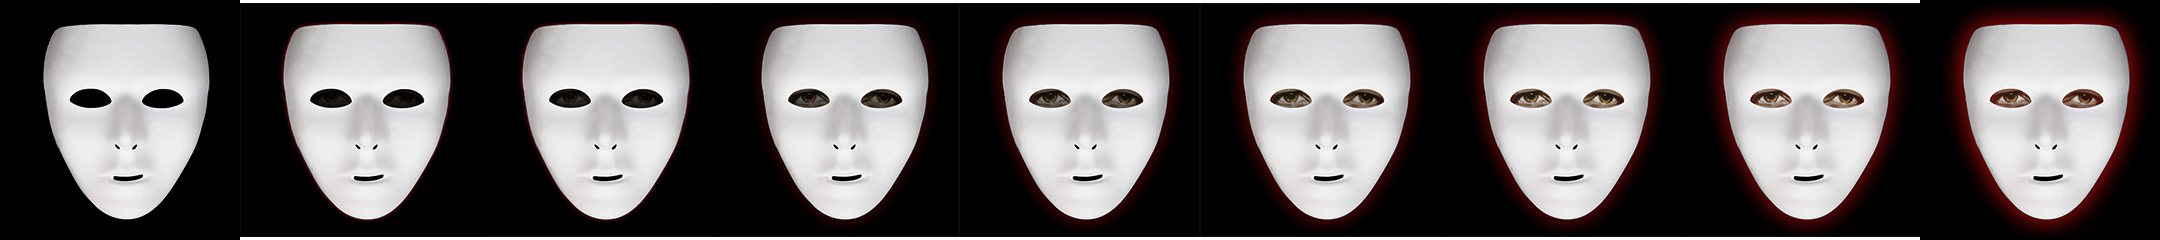
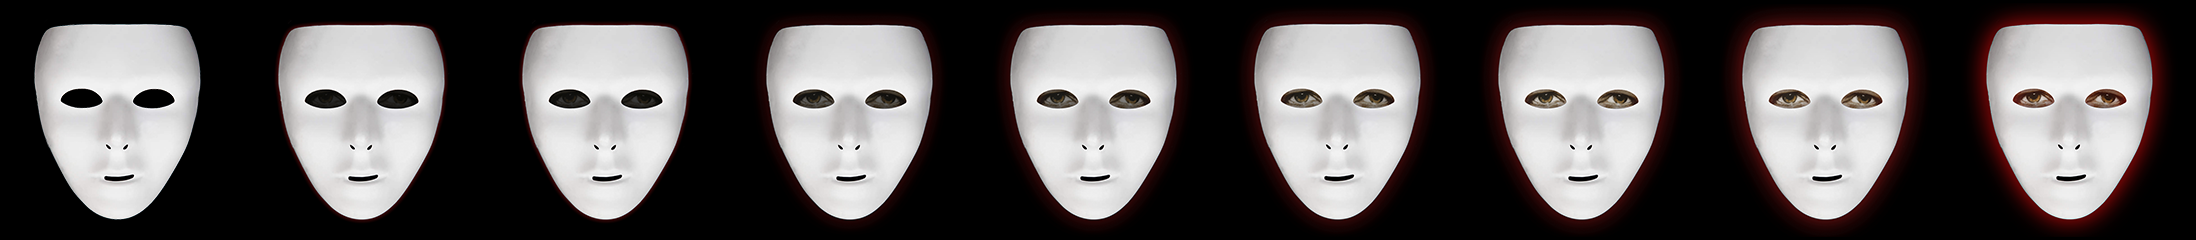
Actulkización

diff --git a/public/css/style.css b/public/css/style.css
@@ -154,7 +154,7 @@ h1, h2, h3, p{
 
     background-image: url('/app/img/mascaras.png');
 
-    animation: nextimg .4s;
+    animation: nextimg 0.5s;
     animation-timing-function: steps(8);
     animation-fill-mode: forwards;
 
@@ -187,5 +187,29 @@ h1, h2, h3, p{
     }
     100%{
         transform: scale(1);
+    }
+}
+
+
+.capa-msg{
+    
+    position: fixed; 
+    width: 100%; 
+    height: 100%; 
+    background-color: gray;
+    top: 0; z-index: 2500;
+
+    opacity: 0;
+
+    animation: capa-msg 1s;
+    animation-fill-mode: forwards;
+}
+
+@keyframes capa-msg{
+    0%{
+        opacity: 0;
+    }
+    100%{
+        opacity: 0.8;
     }
 }

diff --git a/src/views/home.html b/src/views/home.html
@@ -1,5 +1,32 @@
 
 
+<div class="msg" style="position: fixed; opacity: 0; padding-top: 20px;">
+
+    <div class="row right">
+        <div class="col l12">
+            <span style="color: white; font-weight: bold; font-size: 16px; margin: 0 20px 0 0;">X CERRAR</span>
+        </div>
+    </div>
+
+    <div>
+
+    </div>
+
+
+    <div class="row right" style="height: 100%">
+        <div class="col l12">
+            
+        </div>
+    </div>
+
+    <div class="container">
+
+        
+
+    </div>
+
+</div>
+
 <section class="paso1">
     <!-- <img src="/app/img/lluviatv.gif" alt="" style="width: 100%"> -->
 </section>

diff --git a/public/js/main.js b/public/js/main.js
@@ -16,5 +16,6 @@ $btn.addEventListener('click', function(e) {
 
 document.querySelector('#mascara1').addEventListener('click', function(e) {
 
+    document.querySelector('.msg').classList.add('capa-msg')
 
 })
